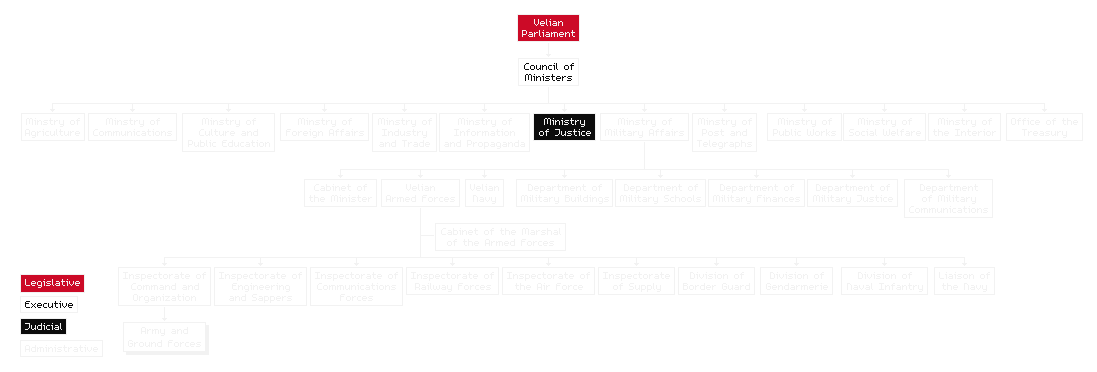
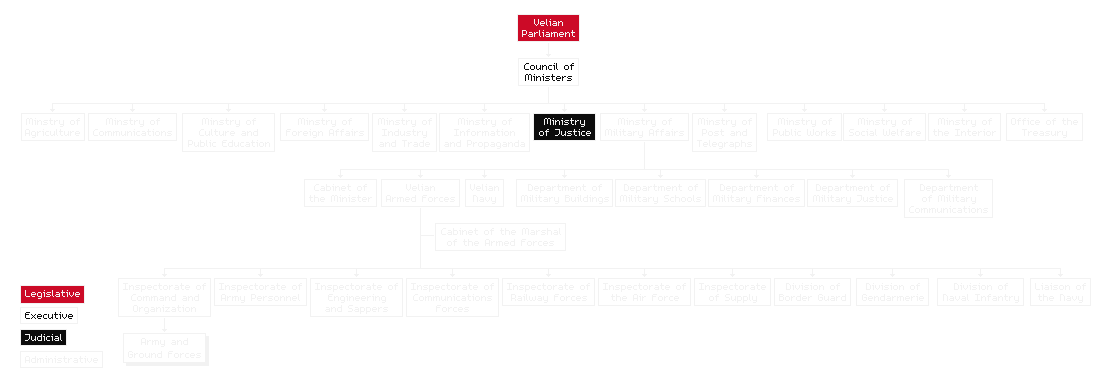
Add missing part

diff --git a/010_velia/26_oob/26_velia.html b/010_velia/26_oob/26_velia.html
@@ -46,7 +46,7 @@
 <!-- ==== Mapping ==== -->
 <div align="CENTER" title="Velian Armed Forces">
 	<map id="_velia" name="_velia">
-	<area shape="rect" alt="Velia Army" coords="123,322,208,354" href="26_velia_army.html" title="Velian Armed Forces" />
+	<area shape="rect" alt="Velia Army" coords="123,333,208,365" href="26_velia_army.html" title="Velian Armed Forces" />
 	</map>
 </div>
 
